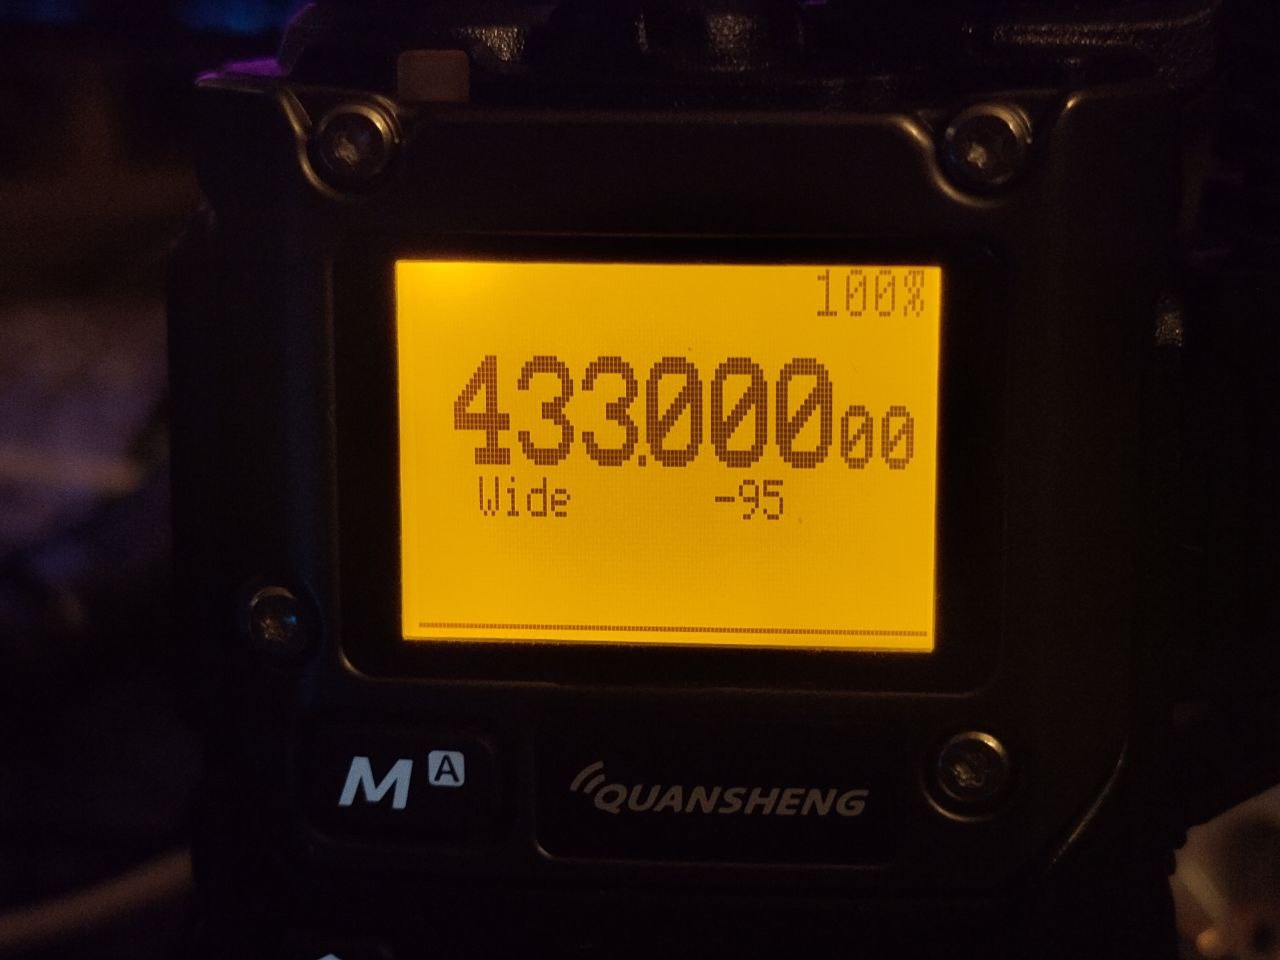
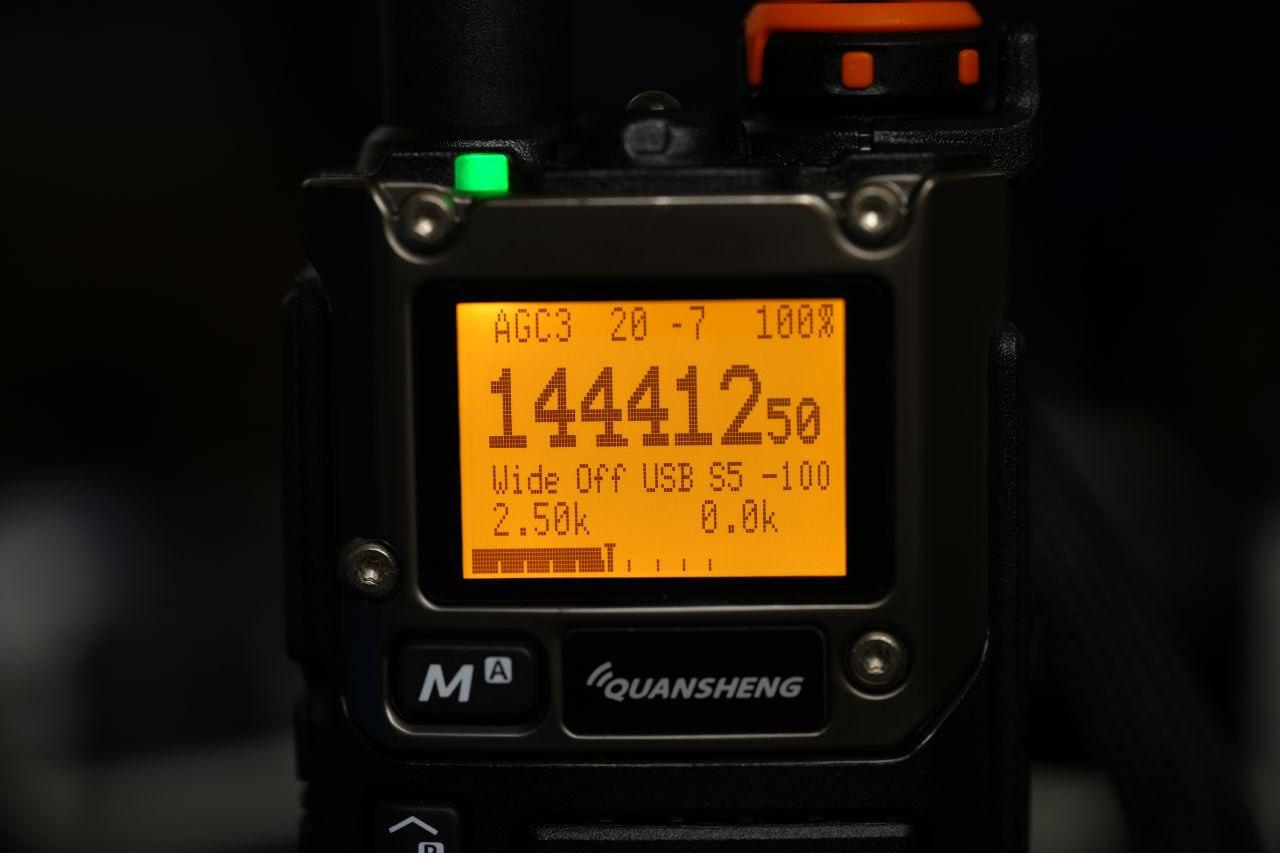
disable uart logs, update images

diff --git a/cross/rquansheng/src/bin/app.rs b/cross/rquansheng/src/bin/app.rs
@@ -120,7 +120,7 @@ mod app {
 
     #[init(local = [poke_display_update: Signal<bool> = Signal::new()])]
     fn init(cx: init::Context) -> (Shared, Local) {
-        let serial_logs = true;
+        let serial_logs = false;
 
         if serial_logs {
             let uart1 = get_uart();
